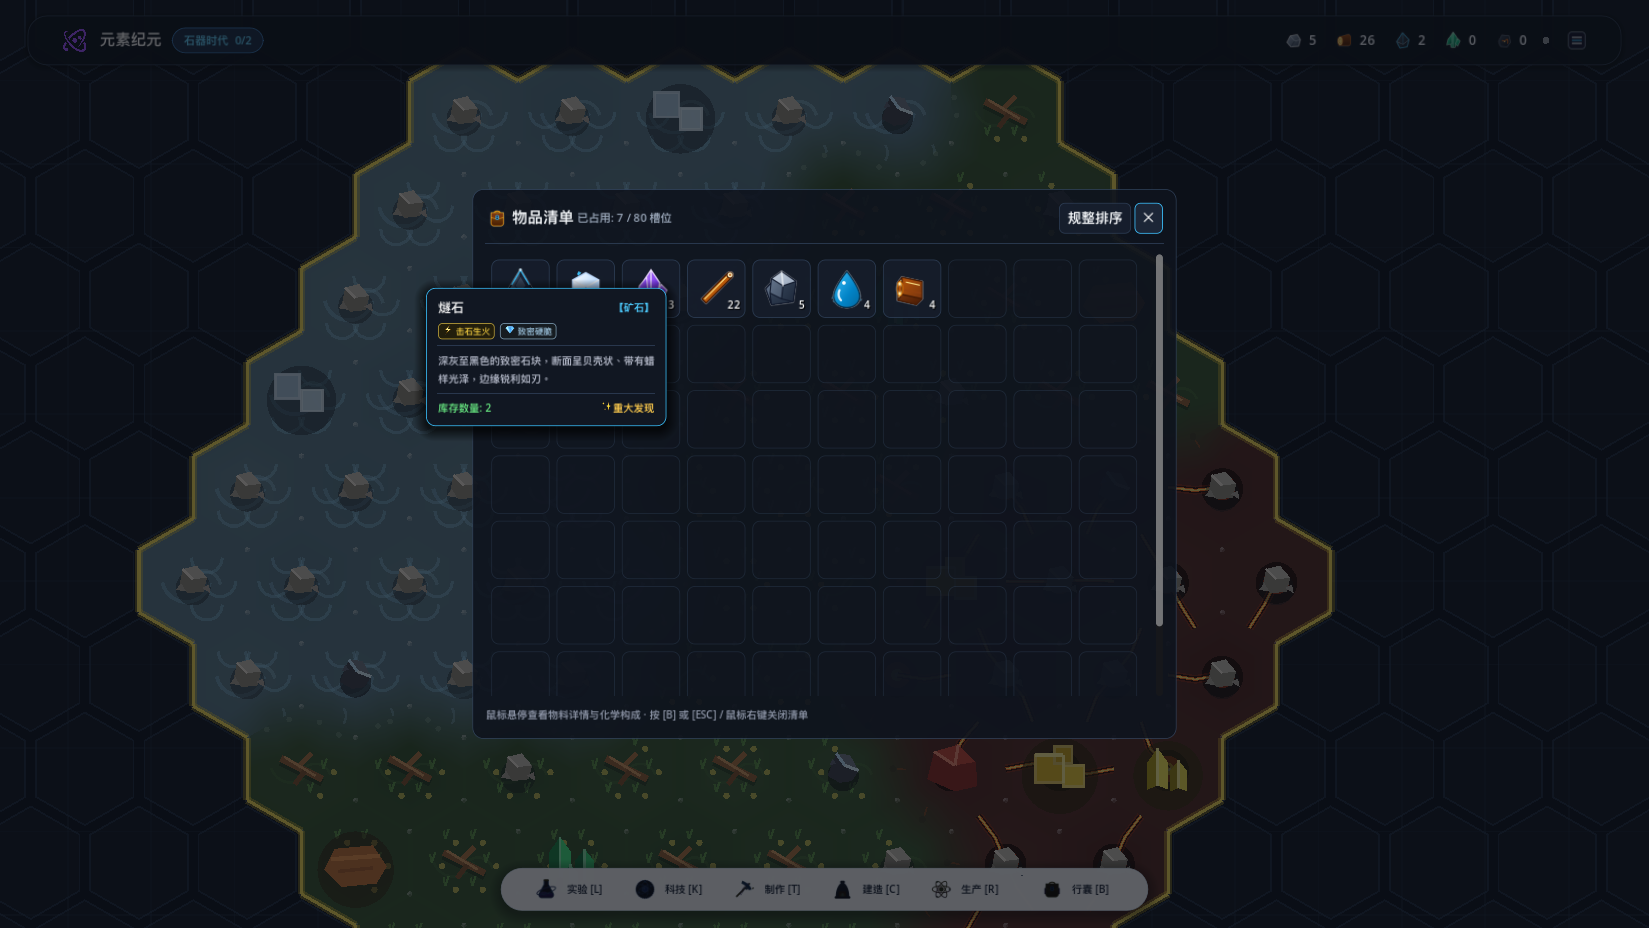
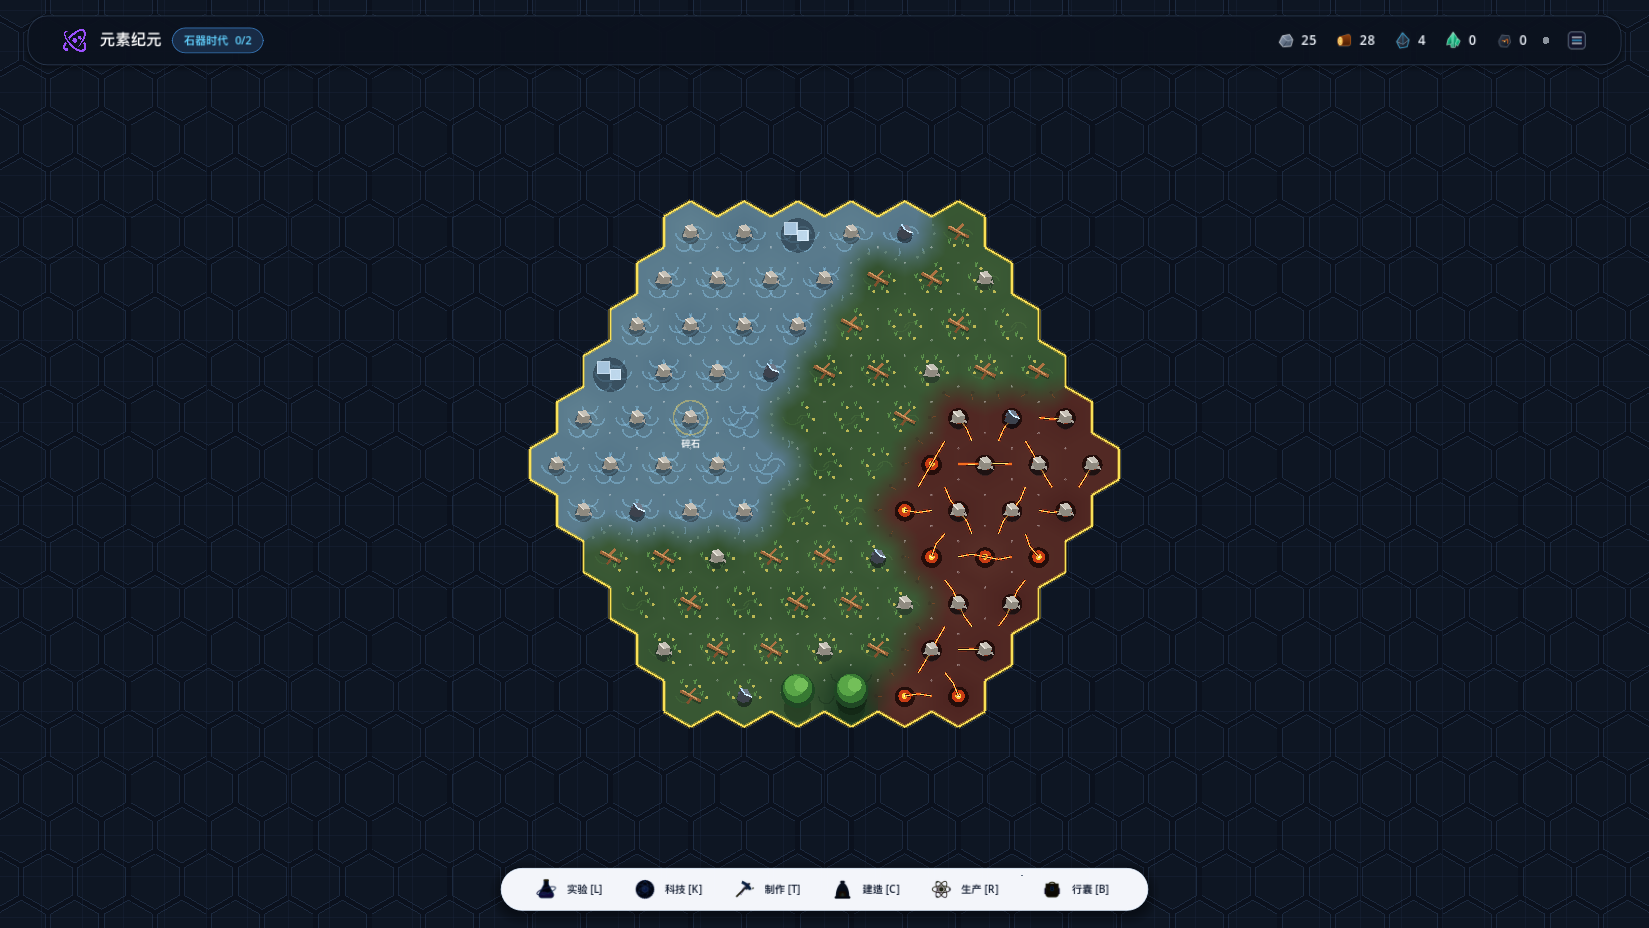
feat: eliminate zoom bounce and implement progressive resource discovery fog

diff --git a/AGENTS.md b/AGENTS.md
@@ -648,6 +648,32 @@
      - ⚙ **关键操作途径**（如制作栏 [T]、实验台 [L]、建造坞 [C]）。
    - 面板尺寸由 800×520 扩展至 840×570，提供极为宽绰优雅的阅读视距。
 
+### 2.29 地图缩放弹性弹动消除与前置工具/时代资源迷雾发现机制 (2026-10-05)
+
+根据用户关于「缩放的弹动没有必要」、「在不具备工具开采的资源，或还没达到相对应的时代的资源，不要显示在地图」的反馈，全面优化了摄像机操作手感与大世界资源的梯度认知迷雾机制：
+
+1. **消除缩放弹性顿挫与滞后感 (`src/scenes/world.gd`)**：
+   - 彻底移除了 `_process` 中对 `camera.zoom` 进行插值延迟的 `lerp(target_zoom, delta * 12.0)` 弹动过渡计算；
+   - 滚轮缩放事件触发时直接赋值 `camera.zoom`（微调步长系数 1.15 / 0.85，严格钳制在 0.5x~2.5x 范围）；
+   - 同步即时判定并切换瓦片精细度 LOD，滚轮缩放手感瞬时响应、指哪打哪，无任何晃动或弹性晕眩。
+
+2. **多维前置门槛资源迷雾体系 (`src/core/simulation.gd`, `src/scenes/world.gd`)**：
+   - **时代梯度勘探门槛 (`RESOURCE_ERA_REQUIREMENTS`)**：
+     - 石器时代（Era 0）：仅允许显现地表散落物（碎石、燧石、枯树枝、湖泊水、原木、粘土、孔雀石、石盐）；
+     - 炼金时代（Era 1）：解锁铁矿（iron_ore）、赤铁矿（hematite）、煤炭（coal）、硫磺（sulfur）、黄铁矿（pyrite）；
+     - 近代化学（Era 2）：解锁方铅矿（galena）、闪锌矿（sphalerite）；
+     - 电化学（Era 3）：解锁铝土矿（bauxite）；
+     - 稀土时代（Era 4）：解锁独居石（monazite）；
+     - 原子时代（Era 5）：解锁沥青铀矿（pitchblende）。
+     - 未达到对应时代时，该时代特色矿石在大地图上**100% 处于地底深层隐匿状态，绝不提前剧透渲染**。
+   - **采掘工具完备度门槛 (`is_resource_minable(item_key)`)**：
+     - 徒手可拾取物（`bare_hands`）：碎石（stone）、燧石（flint）、地表断枝（stick）、盐湖水（water），开局即可直观看到并点击；
+     - 砍伐工具门槛（`axe`）：原木（wood）需要装配石斧/燧石斧，徒手阶段林木地表仅显示散落的「枯树枝」，大橡树在装备斧头前保持隐匿；
+     - 挖掘/采矿工具门槛（`pickaxe`）：粘土矿（clay）、孔雀石（malachite）及各类金属矿脉需要装备镐类工具，徒手阶段不显示在地图上，杜绝盲目点击报错。
+   - **动态响应与即时浮现**：
+     - 挂载 `GameState.tool_equipped` 与 `GameState.era_advanced` 信号，玩家一旦在制作栏 (T) 合成并装备工具，或达成里程碑跨入新纪元，大地图上对应的全新资源瞬间破除迷雾、即时显现！
+     - 地块可用资源查询接口（`get_tile_available_resources`）同步过滤，点击已隐匿地块绝无非法采矿任务下发。
+
 ---
 
 ## 3. 架构设计规范与数据流动
